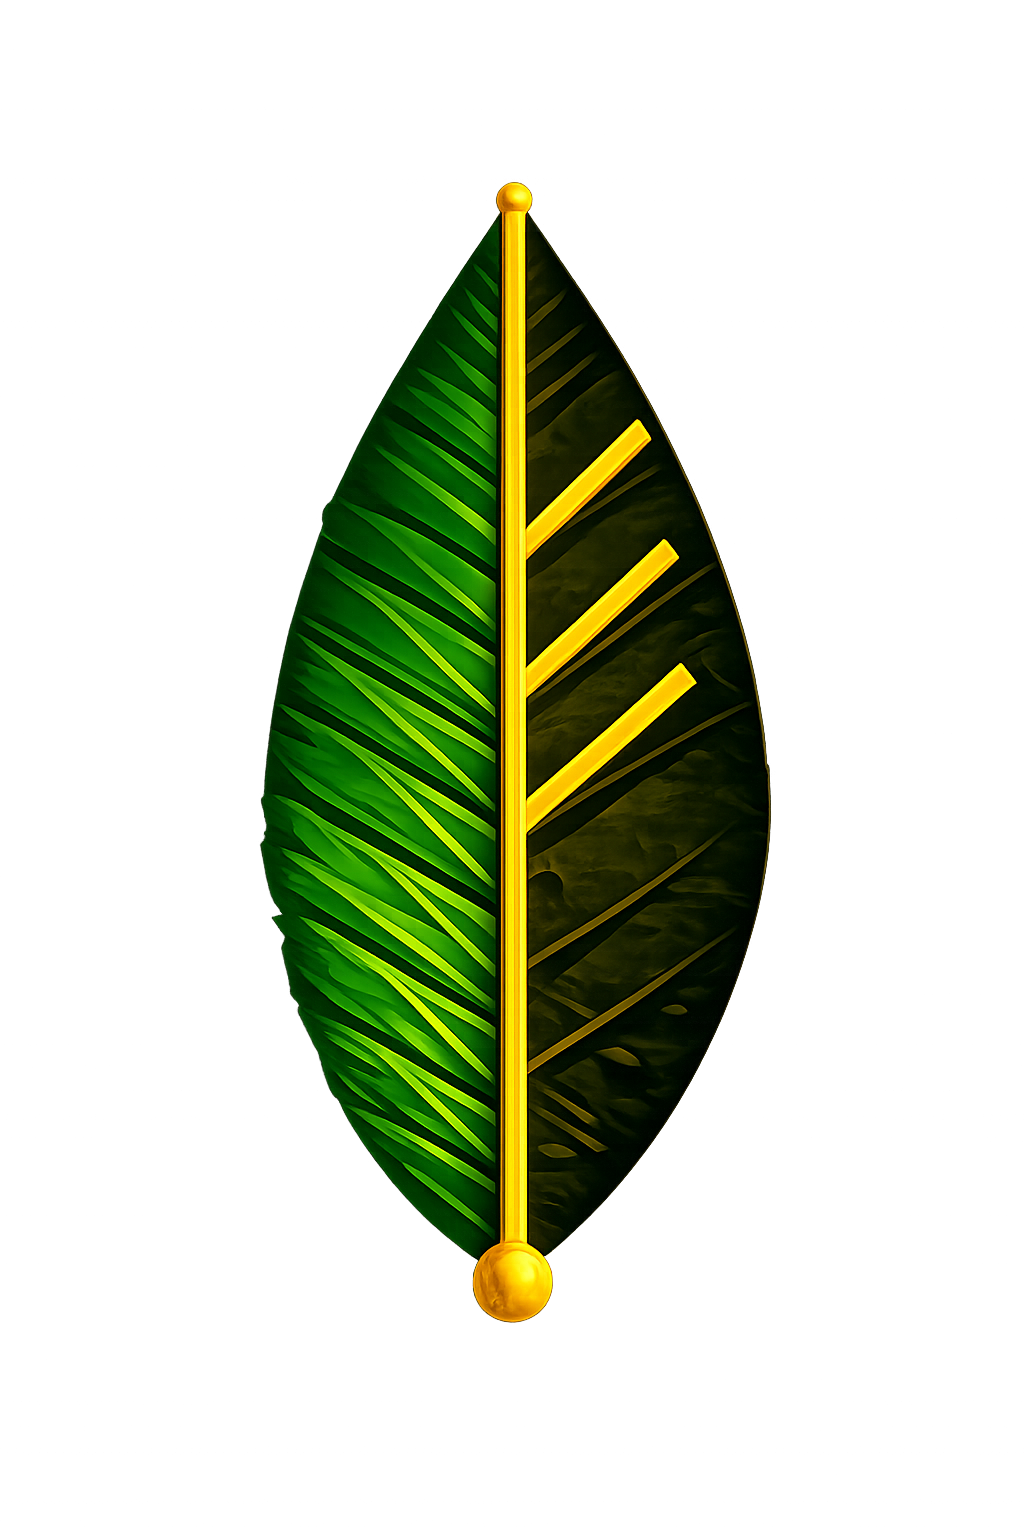
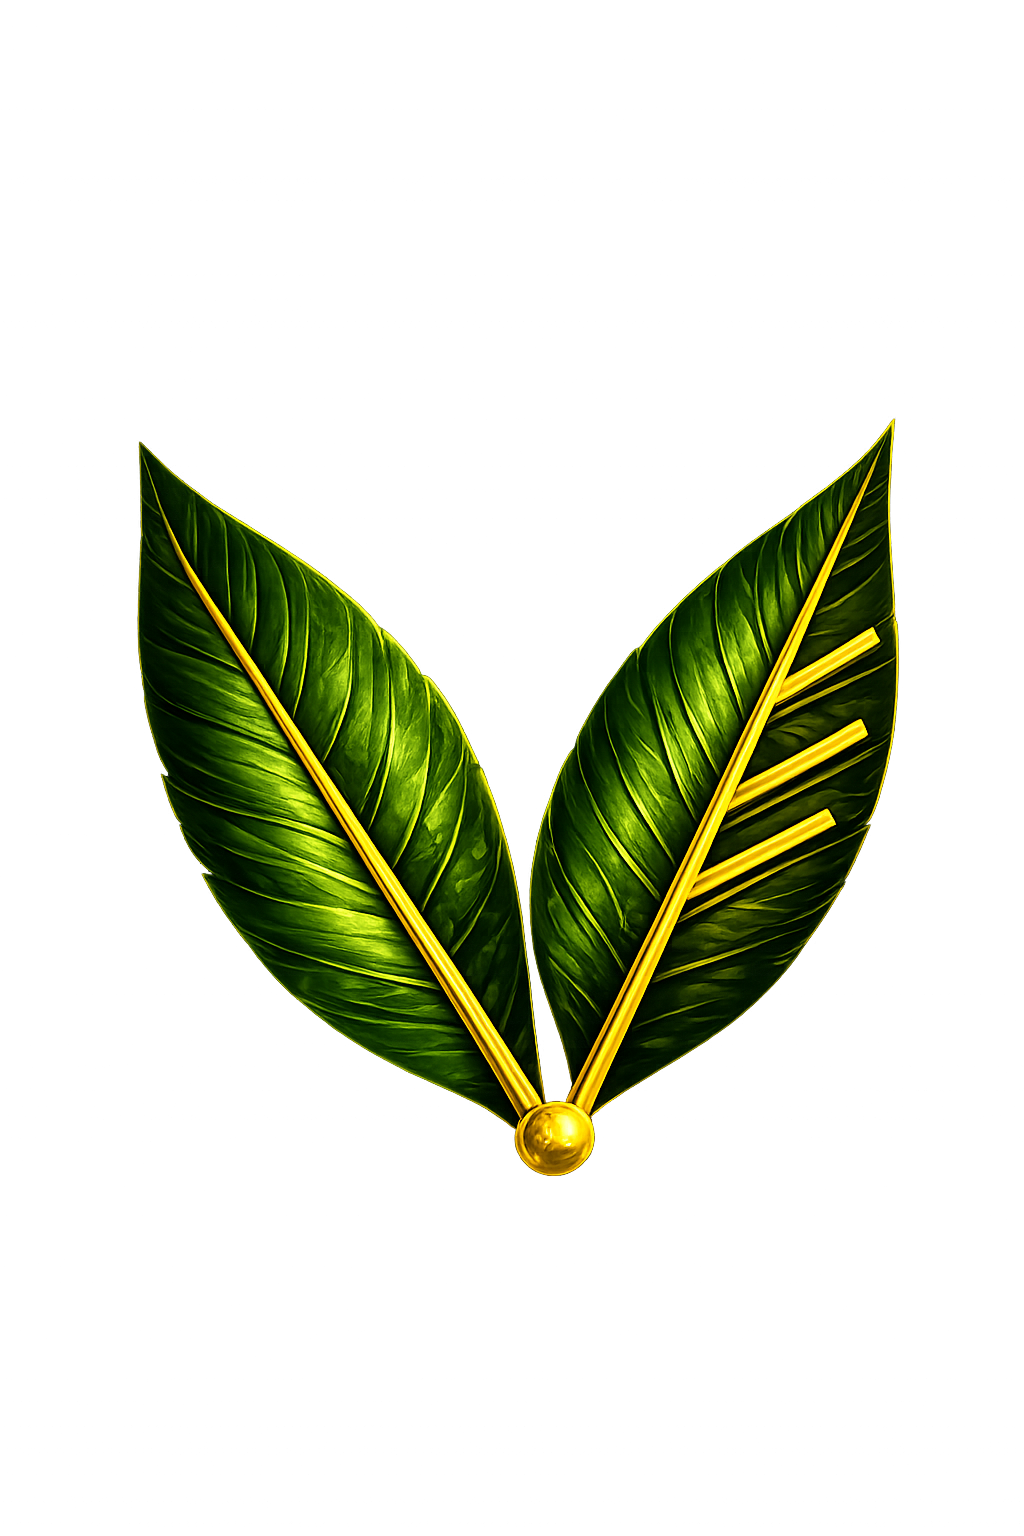
ASD

Changed region(s): [[0.125, 0.125, 0.875, 0.875]]

diff --git a/src/pages/dashboard/registro/page.tsx b/src/pages/dashboard/registro/page.tsx
@@ -1,5 +1,32 @@
 import { useState, useRef } from "react";
 
+// Etiquetas legibles para los campos obligatorios
+const FIELD_LABELS: Partial<Record<string, string>> = {
+  nombre: "Nombre completo",
+  dni: "DNI",
+  telefono: "Teléfono",
+  comunidad: "Comunidad",
+  distrito: "Distrito",
+  fotoProductor: "Foto del productor",
+  nombreParcela: "Nombre de la parcela",
+  altitud: "Altitud",
+  superficieTotal: "Superficie total",
+  areaCacao: "Área de cacao",
+  fuenteHidrica: "Fuente hídrica",
+  edadPlantas: "Edad de plantas",
+  distanciamiento: "Distanciamiento",
+  gradosBrix: "Grados Brix",
+  estimadoAnual: "Estimado anual",
+  tipoAcopio: "Tipo de acopio",
+  plagaPrincipal: "Plaga principal",
+  pctAfectacionPrincipal: "% Afectación principal",
+  estadoCertificacion: "Estado de certificación",
+  firmaProductor: "Firma del productor",
+  firmaAcopiador: "Firma del acopiador",
+  declaracionJurada: "Declaración jurada (debe aceptarse)",
+  viasTrocha: "Al menos una vía de acceso",
+};
+
 type SectionId = "identidad" | "parcela" | "cultivo" | "produccion" | "sanidad" | "certificacion" | "capacitacion" | "evaluacion" | "firmas";
 
 interface FormData {
@@ -251,6 +278,7 @@ export default function Registro() {
   const [errors, setErrors] = useState<Partial<Record<keyof FormData, boolean>>>({});
   const [toast, setToast] = useState<string | null>(null);
   const [submitted, setSubmitted] = useState(false);
+  const [validationModal, setValidationModal] = useState<{ section: string; num: string; id: SectionId; fields: string[] }[] | null>(null);
 
   const upd = <K extends keyof FormData>(k: K, v: FormData[K]) => {
     setData(d => ({ ...d, [k]: v }));
@@ -280,13 +308,6 @@ export default function Registro() {
   };
 
   const goTo = (nextId: SectionId) => {
-    const curIdx = SECTIONS.findIndex(s => s.id === active);
-    const nextIdx = SECTIONS.findIndex(s => s.id === nextId);
-    if (nextIdx > curIdx && !validateSection(active)) {
-      const sec = SECTIONS.find(s => s.id === active)!;
-      showToast(`⚠️ Faltan campos obligatorios en la sección "${sec.title}". Por favor, completa todos los campos marcados con * antes de continuar.`);
-      return;
-    }
     setActive(nextId);
     window.scrollTo({ top: 0, behavior: "smooth" });
   };
@@ -302,13 +323,38 @@ export default function Registro() {
   };
 
   const handleSubmit = () => {
+    // Recopilar TODOS los errores de TODAS las secciones
+    const allMissing: { section: string; num: string; id: SectionId; fields: string[] }[] = [];
+    const allNewErrors: Partial<Record<keyof FormData, boolean>> = {};
+
     for (const sec of SECTIONS) {
-      if (!validateSection(sec.id)) {
-        setActive(sec.id);
-        showToast(`⚠️ Faltan datos obligatorios en la sección "${sec.title}" (${sec.num}). Revísala y completa los campos marcados con *.`);
-        window.scrollTo({ top: 0, behavior: "smooth" });
-        return;
+      const missingFields: string[] = [];
+      for (const field of sec.required) {
+        const val = data[field];
+        const empty = typeof val === "boolean" ? !val : !String(val).trim();
+        if (empty) {
+          allNewErrors[field] = true;
+          missingFields.push(FIELD_LABELS[field] || String(field));
+        }
       }
+      // Validación especial de vías en parcela
+      if (sec.id === "parcela") {
+        const hasVia = data.viasTrocha || data.viasAfirmada || data.viasAsfaltado || data.viasHerradura || data.viasFluvial || data.viasPie;
+        if (!hasVia) {
+          allNewErrors["viasTrocha"] = true;
+          missingFields.push(FIELD_LABELS["viasTrocha"] || "Vía de acceso");
+        }
+      }
+      if (missingFields.length > 0) {
+        allMissing.push({ section: sec.title, num: sec.num, id: sec.id, fields: missingFields });
+      }
+    }
+
+    setErrors(e => ({ ...e, ...allNewErrors }));
+
+    if (allMissing.length > 0) {
+      setValidationModal(allMissing);
+      return;
     }
     setSubmitted(true);
   };
@@ -339,6 +385,62 @@ export default function Registro() {
   return (
     <div className="space-y-4 pb-8">
       {toast && <Toast msg={toast} onClose={() => setToast(null)} />}
+
+      {/* MODAL DE VALIDACIÓN — muestra todos los campos faltantes */}
+      {validationModal && (
+        <div className="fixed inset-0 z-50 flex items-center justify-center p-4" style={{ background: 'rgba(0,0,0,0.65)' }}>
+          <div className="bg-white rounded-2xl shadow-2xl max-w-lg w-full max-h-[85vh] flex flex-col border-4 border-red-500">
+            {/* Header */}
+            <div className="flex items-center gap-3 bg-red-600 text-white px-6 py-4 rounded-t-xl">
+              <i className="ri-error-warning-fill text-2xl flex-shrink-0" />
+              <div className="flex-1">
+                <p className="font-black text-base uppercase tracking-wide leading-tight">No se puede enviar el registro</p>
+                <p className="text-sm text-red-100 mt-0.5">Faltan {validationModal.reduce((a, s) => a + s.fields.length, 0)} campo(s) obligatorio(s) en {validationModal.length} sección(es)</p>
+              </div>
+              <button onClick={() => setValidationModal(null)} className="text-white/70 hover:text-white text-2xl leading-none cursor-pointer ml-2">✕</button>
+            </div>
+            {/* Body */}
+            <div className="overflow-y-auto flex-1 px-6 py-4 space-y-4">
+              {validationModal.map(sec => (
+                <div key={sec.id} className="border-2 border-amber-300 rounded-xl overflow-hidden">
+                  <div className="bg-amber-100 px-4 py-2 flex items-center gap-2">
+                    <span className="text-xs font-black text-amber-800 bg-amber-700 text-white rounded-full px-2 py-0.5">{sec.num}</span>
+                    <span className="text-sm font-bold text-amber-900">{sec.section}</span>
+                  </div>
+                  <ul className="px-4 py-3 space-y-1.5">
+                    {sec.fields.map((f, i) => (
+                      <li key={i} className="flex items-center gap-2 text-sm text-stone-700">
+                        <span className="w-2 h-2 rounded-full bg-red-500 flex-shrink-0" />
+                        {f}
+                      </li>
+                    ))}
+                  </ul>
+                </div>
+              ))}
+            </div>
+            {/* Footer */}
+            <div className="px-6 py-4 border-t border-stone-200 flex gap-3">
+              <button
+                onClick={() => {
+                  const first = validationModal[0];
+                  setActive(first.id);
+                  setValidationModal(null);
+                  window.scrollTo({ top: 0, behavior: "smooth" });
+                }}
+                className="flex-1 py-2.5 rounded-lg text-sm font-bold text-white bg-amber-700 hover:bg-amber-800 transition-all cursor-pointer"
+              >
+                <i className="ri-arrow-go-back-line mr-1" /> Ir a la primera sección con errores
+              </button>
+              <button
+                onClick={() => setValidationModal(null)}
+                className="px-4 py-2.5 rounded-lg text-sm font-bold text-stone-600 bg-stone-100 hover:bg-stone-200 transition-all cursor-pointer"
+              >
+                Cerrar
+              </button>
+            </div>
+          </div>
+        </div>
+      )}
 
       {/* PORTADA */}
       <div className={card}>

diff --git a/src/pages/home/page.tsx b/src/pages/home/page.tsx
@@ -1,39 +1,22 @@
 import { useNavigate } from "react-router-dom";
-import { useRef, useEffect } from "react";
 
 declare const __BASE_PATH__: string;
 
 export default function Home() {
   const navigate = useNavigate();
-  const videoRef = useRef<HTMLVideoElement>(null);
   const basePath = typeof __BASE_PATH__ !== 'undefined' ? __BASE_PATH__ : '/';
-  const videoSrc = `${basePath}videos/fondos3.mp4`.replace('//', '/');
-
-  useEffect(() => {
-    const video = videoRef.current;
-    if (video) {
-      video.play().catch(() => {});
-    }
-  }, []);
 
   return (
     <div className="relative min-h-screen w-full flex flex-col">
-      {/* Background Video */}
+      {/* Background Image */}
       <div className="absolute inset-0 w-full h-full overflow-hidden">
-        <video
-          ref={videoRef}
-          autoPlay
-          muted
-          loop
-          playsInline
-          preload="auto"
-          className="w-full h-full object-cover"
+        <img
+          src={`${basePath}images/coments.jpg`.replace('//', '/')}
+          alt=""
+          className="w-full h-full object-cover object-center"
           style={{ display: 'block' }}
-        >
-          <source src={videoSrc} type="video/mp4" />
-        </video>
-        <div className="absolute inset-0 -z-10" style={{ background: 'linear-gradient(135deg, #3f0d17 0%, #7A1D2E 40%, #9f1239 70%, #2d0a10 100%)' }} />
-        <div className="absolute inset-0 bg-gradient-to-b from-rose-950/35 via-rose-900/20 to-stone-900/45" />
+        />
+        <div className="absolute inset-0 bg-gradient-to-b from-rose-950/50 via-stone-900/40 to-stone-950/60" />
       </div>
 
       {/* Navbar */}
@@ -91,16 +74,17 @@ export default function Home() {
               }}
             />
             <h1
-              className="uppercase tracking-tight leading-[1.05]"
+              className="uppercase leading-[0.95]"
               style={{
-                color: '#C9A84C',
+                color: '#E8C93A',
                 fontFamily: "'Playfair Display', serif",
                 fontWeight: 950,
                 fontSize: 'clamp(2rem, 5vw, 3.6rem)',
-                letterSpacing: '0.03em',
-                WebkitTextStroke: '0.5px #C9A84C',
-                filter: 'drop-shadow(0 0 18px rgba(201,168,76,0.5)) drop-shadow(0 2px 8px rgba(0,0,0,0.55))',
+                letterSpacing: '-0.01em',
+                WebkitTextStroke: '0.8px #D4AF20',
+                filter: 'drop-shadow(0 0 22px rgba(232,201,58,0.65)) drop-shadow(0 2px 10px rgba(0,0,0,0.7))',
                 margin: 0,
+                textShadow: '0 0 40px rgba(232,201,58,0.4)',
               }}
             >
               Comparto tu Esperanza